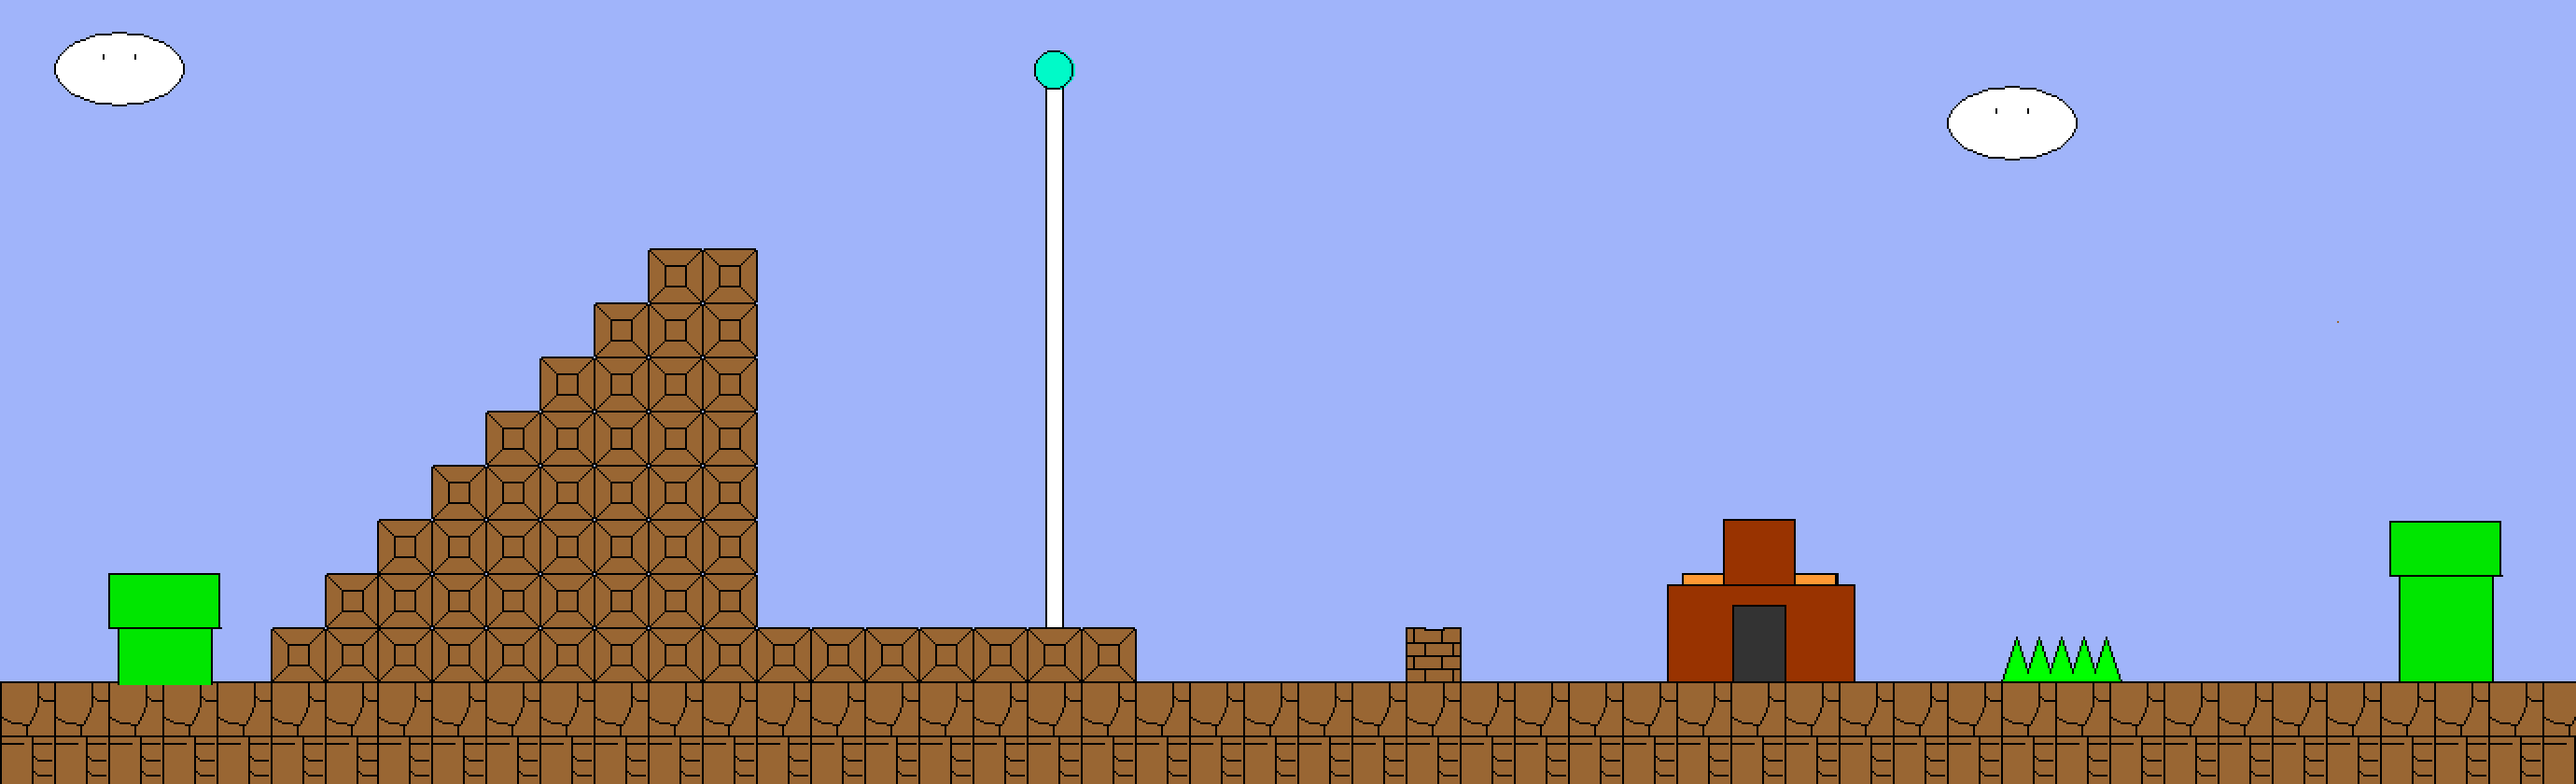
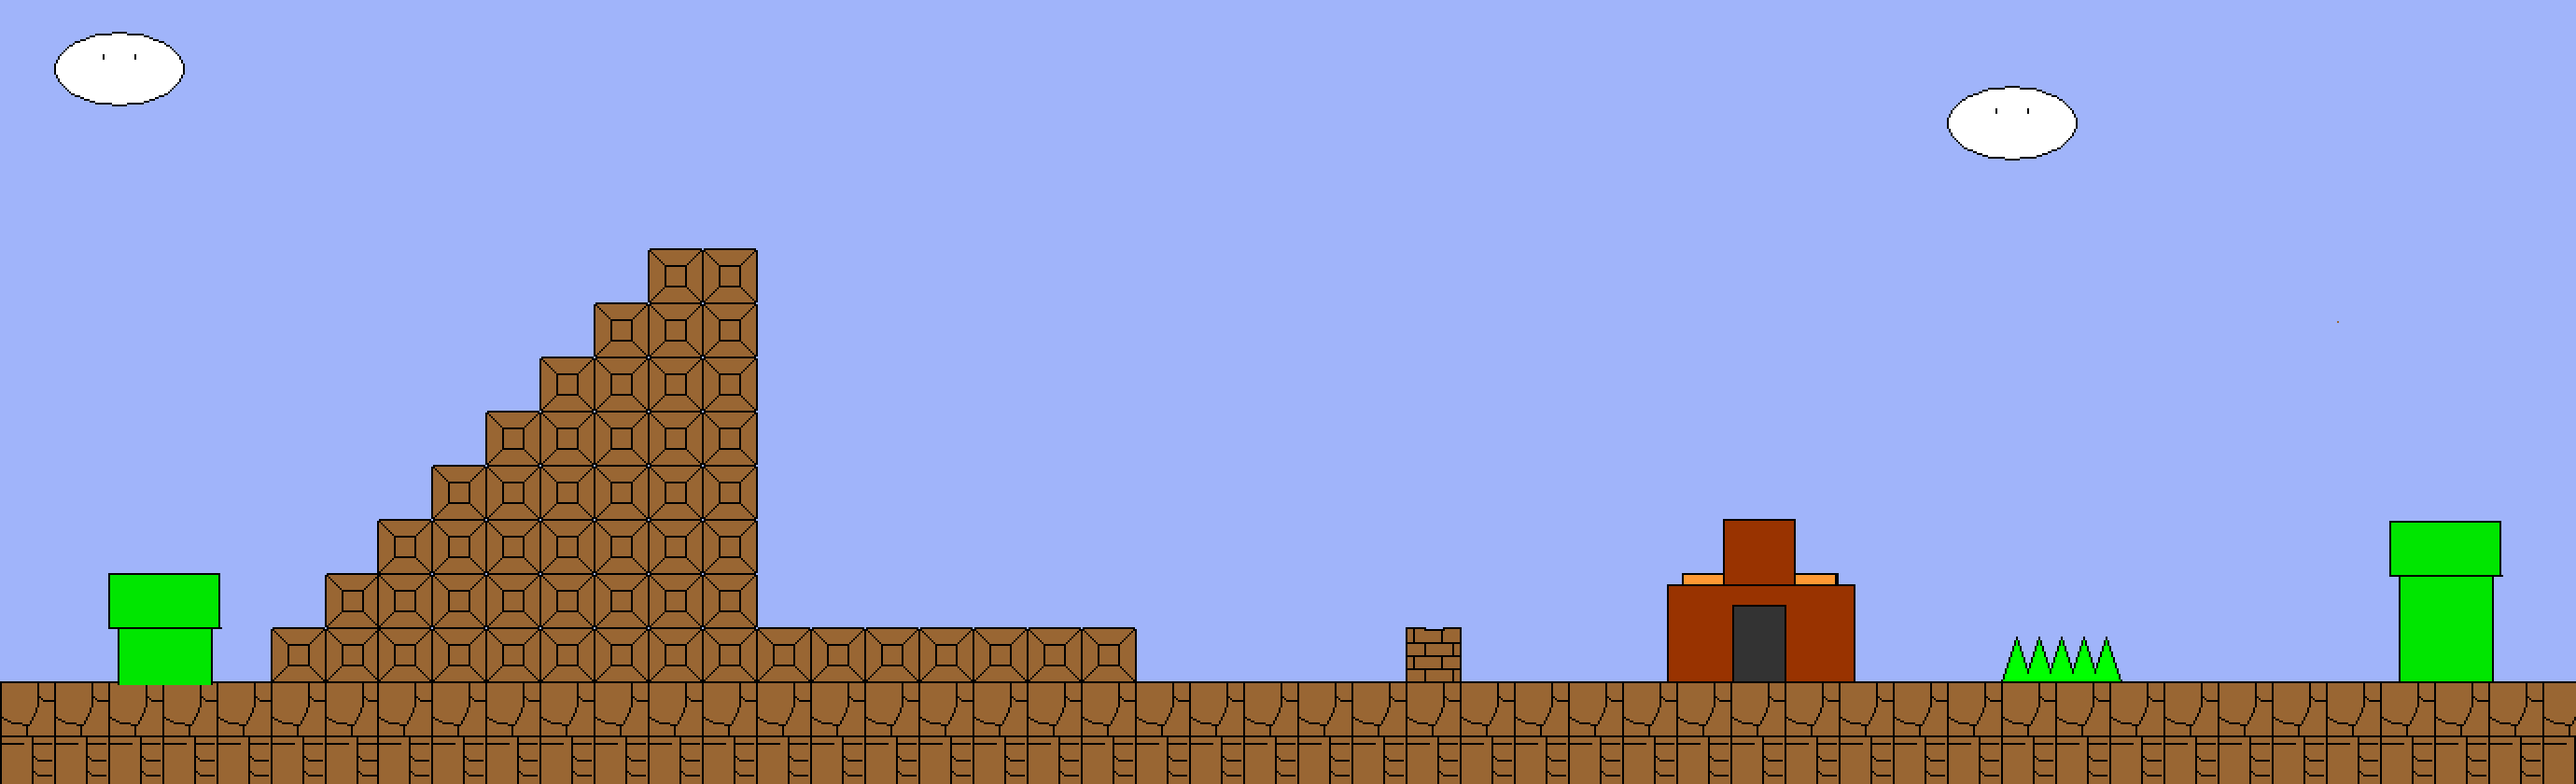
이수환: FakeStaff 움직임 구현중

Changed region(s): [[0.4051, 0.0619, 0.4362, 0.8048]]

diff --git a/Cat_Mario_API/Contents/GameMode_FourthMap.cpp b/Cat_Mario_API/Contents/GameMode_FourthMap.cpp
@@ -6,6 +6,7 @@
 #include <EngineCore/EngineAPICore.h>
 
 #include "FourthMap.h"
+#include "GameMode_DeathCount.h"
 #include "MarioCat.h"
 
 #include "Staff.h"
@@ -29,15 +30,15 @@ void GameMode_FourthMap::BeginPlay()
 
 	{
 		FourthMap* NewActor = GetWorld()->SpawnActor<FourthMap>();
-
 	}
 	{
 		Staff* TheStaff = GetWorld()->SpawnActor<Staff>();
 		TheStaff->SetActorLocation({ 1537, 374 });
 	}
 	{
-		FakeStaff* TheStaff = GetWorld()->SpawnActor<FakeStaff>();
-		TheStaff->SetActorLocation({ 1131, 364 });
+		TheFStaff = GetWorld()->SpawnActor<FakeStaff>();
+		TheFStaff->SetActorLocation({ 1131, 364 });
+		TheFStaff->SetColImage("4thColMap.png");
 	}
 }
 
@@ -45,9 +46,82 @@ void GameMode_FourthMap::Tick(float _DeltaTime)
 {
 	Super::Tick(_DeltaTime);
 
+	FSSwitch();
+
 	if (true == UEngineInput::GetInst().IsDown(VK_SPACE))
 	{
 		UEngineAPICore::GetCore()->OpenLevel("TheEnd");
 	}
 
+}
+
+void GameMode_FourthMap::FSSwitch()
+{
+	MarioCat* Player = GetWorld()->GetPawn<MarioCat>();
+	FVector2D PlayerPos = Player->GetActorLocation();
+
+	if (PlayerPos.X>= 840.0f && PlayerPos.X <= 1119.0f && PlayerPos.Y >= 640.0f)
+	{
+		TheFStaff->MoveSwitch = true;
+		TheFStaff->GoLeft = true;
+	}
+	else if (PlayerPos.X >= 1142.0f && PlayerPos.Y >= 699.0f)
+	{
+		TheFStaff->MoveSwitch = true;
+		TheFStaff->GoLeft = true;
+	}
+}
+
+void GameMode_FourthMap::ReStart(float _DeltaTime)
+{
+	MarioCat* Player = GetWorld()->GetPawn<MarioCat>();
+
+	if (true == Player->IsCatDead)
+	{
+		--GameMode_DeathCount::Number;
+		GameMode_DeathCount::At1stMap = true;
+		GoToDeathCount();
+	}
+}
+
+void GameMode_FourthMap::LevelChangeStart()
+{
+	Super::LevelChangeStart();
+
+	static bool /*GameMode_FourthMap::*/Check = false;
+
+	if (Check == false)
+	{
+		MarioCat::StartPos = { /*2600, 700*/ /*2920, 700*/ /*6150, 100*/ 300, 700 /*7100, 10*/  /*6700, 10*/ };
+		Check = true;
+	}
+}
+
+void GameMode_FourthMap::AtTheDoor()
+{
+	MarioCat* Player = GetWorld()->GetPawn<MarioCat>();
+	FVector2D PlayerPos = Player->GetActorLocation();
+	if (PlayerPos.X >= 7510.0f)
+	{
+		Player->AtTheDoor = true;
+	}
+}
+
+void GameMode_FourthMap::Clear()
+{
+	MarioCat* Player = GetWorld()->GetPawn<MarioCat>();
+	if (Player->Cleared == true)
+	{
+		//BGMPlayerBase.Stop();
+		GameMode_DeathCount::MapNameString = "TheEnd";
+		GameMode_DeathCount::At4thMap = false;
+
+		MarioCat::StartPos = { 300, 700 };
+		TimeEventer.PushEvent(2.0f, std::bind(&GameMode_FourthMap::GoToDeathCount, this));
+	}
+}
+
+void GameMode_FourthMap::GoToDeathCount()
+{
+	UEngineAPICore::GetCore()->OpenLevel("DeathCount");
 }

diff --git a/Cat_Mario_API/Contents/GameMode_FourthMap.h b/Cat_Mario_API/Contents/GameMode_FourthMap.h
@@ -17,12 +17,22 @@ public:
 	GameMode_FourthMap& operator=(GameMode_FourthMap&& _Other) noexcept = delete;
 
 	void BeginPlay() override;
-
 	void Tick(float _DeltaTime) override;
+
+	void FSSwitch();
+	void FSMove(float _DeltaTime);
+
+	void ReStart(float _DeltaTime);
+	void LevelChangeStart() override;
+	void AtTheDoor();
+	void Clear();
+	void GoToDeathCount();
 
 protected:
 
 private:
-
+	bool FSLever1 = false;
+	bool FSLever2 = false;
+	class FakeStaff* TheFStaff;
 };
 
